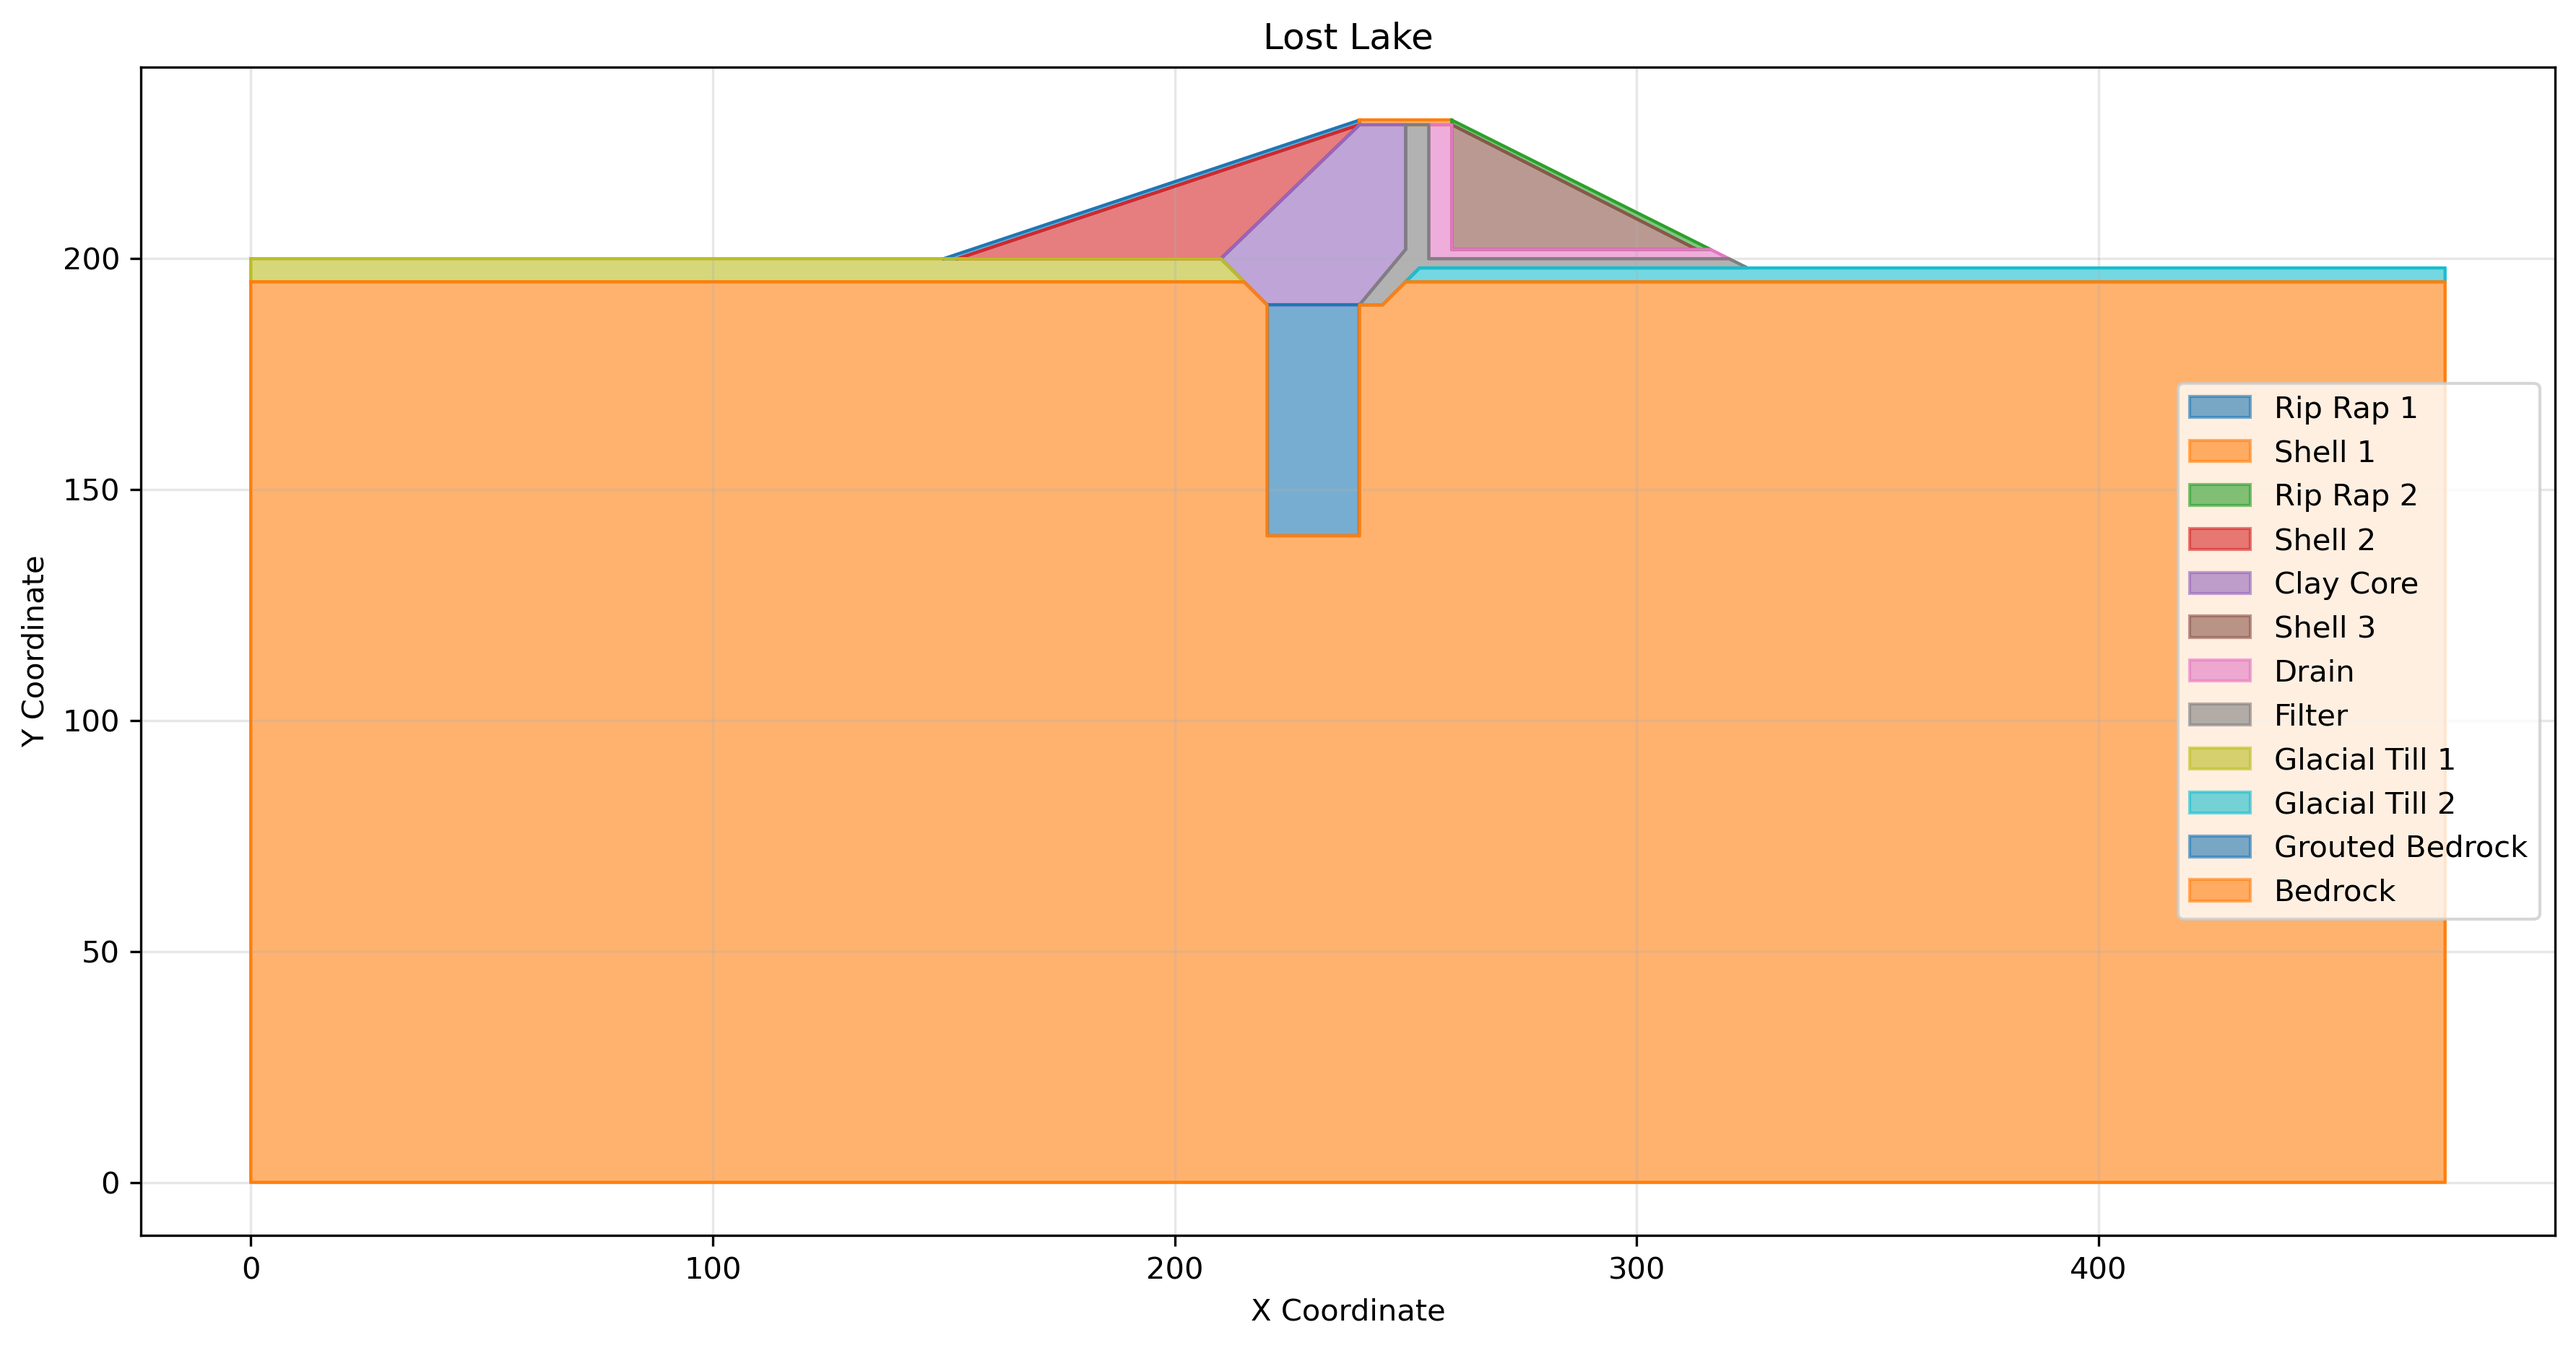
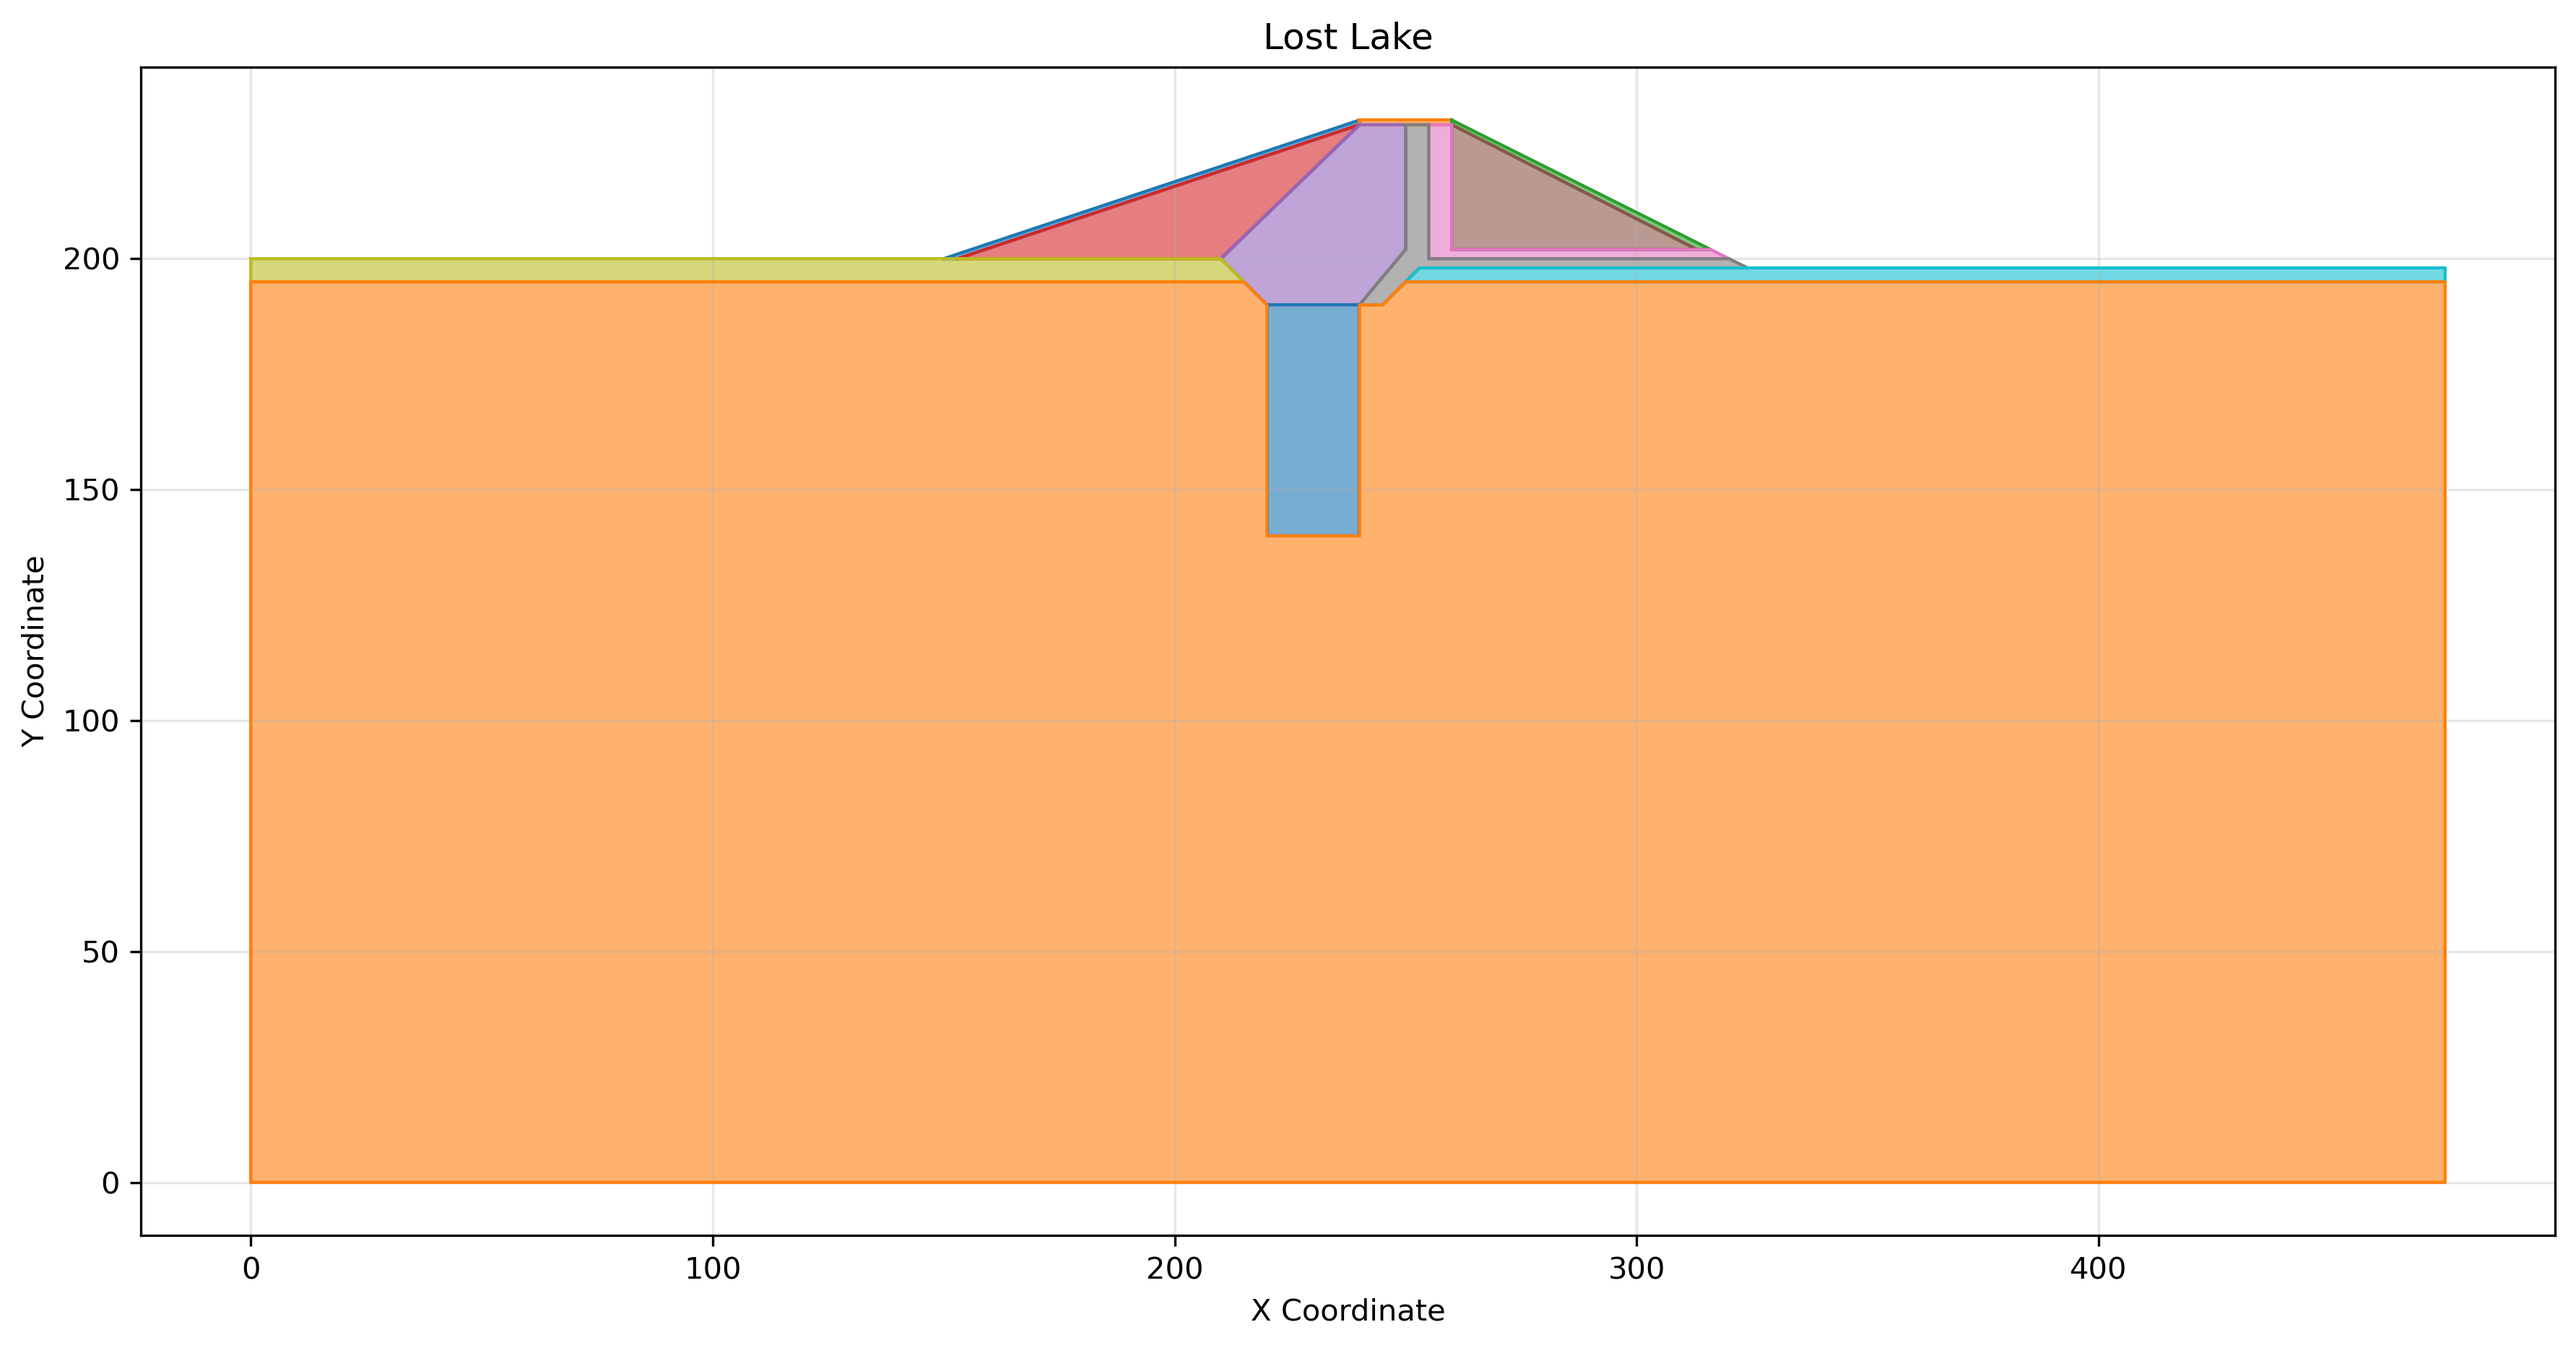
added legend argument to plot_polygons

Changed region(s): [[0.8402, 0.2796, 0.9958, 0.6834]]

diff --git a/xslope/plot.py b/xslope/plot.py
@@ -1890,7 +1890,7 @@ def plot_mesh(mesh, materials=None, figsize=(14, 6), pad_frac=0.05, show_nodes=T
     plt.show()
 
 
-def plot_polygons(polygons, materials=None, nodes=False, title="Material Zone Polygons", save_png=False, dpi=300):
+def plot_polygons(polygons, materials=None, nodes=False, legend=True, title="Material Zone Polygons", save_png=False, dpi=300):
     """
     Plot all material zone polygons in a single figure.
     
@@ -1899,6 +1899,7 @@ def plot_polygons(polygons, materials=None, nodes=False, title="Material Zone Po
         materials: Optional list of material dicts (with key "name") or list of material
             name strings. If provided, the material name will be used in the legend.
         nodes: If True, plot each polygon vertex as a dot.
+        legend: If True, show the legend.
         title: Plot title
     """
     import matplotlib.pyplot as plt
@@ -1923,7 +1924,8 @@ def plot_polygons(polygons, materials=None, nodes=False, title="Material Zone Po
     ax.set_xlabel('X Coordinate')
     ax.set_ylabel('Y Coordinate')
     ax.set_title(title)
-    ax.legend()
+    if legend:
+        ax.legend()
     ax.grid(True, alpha=0.3)
     ax.set_aspect('equal')
     plt.tight_layout()

diff --git a/main_seep.py b/main_seep.py
@@ -12,7 +12,7 @@ plot_inputs(slope_data, figsize=(10, 8), mode='seep', mat_table=False, tab_loc='
 
 polygons = build_polygons(slope_data, debug=True)
 
-plot_polygons(polygons, materials=slope_data['materials'], title="Lost Lake", nodes=False, save_png=True)
+plot_polygons(polygons, materials=slope_data['materials'], title="Lost Lake", nodes=False, legend=False, save_png=True)
 # plot_polygons_separately(polygons, materials=slope_data['materials'], save_png=True)
 
 # find the x-range of the ground_surface and use it to set the target size
